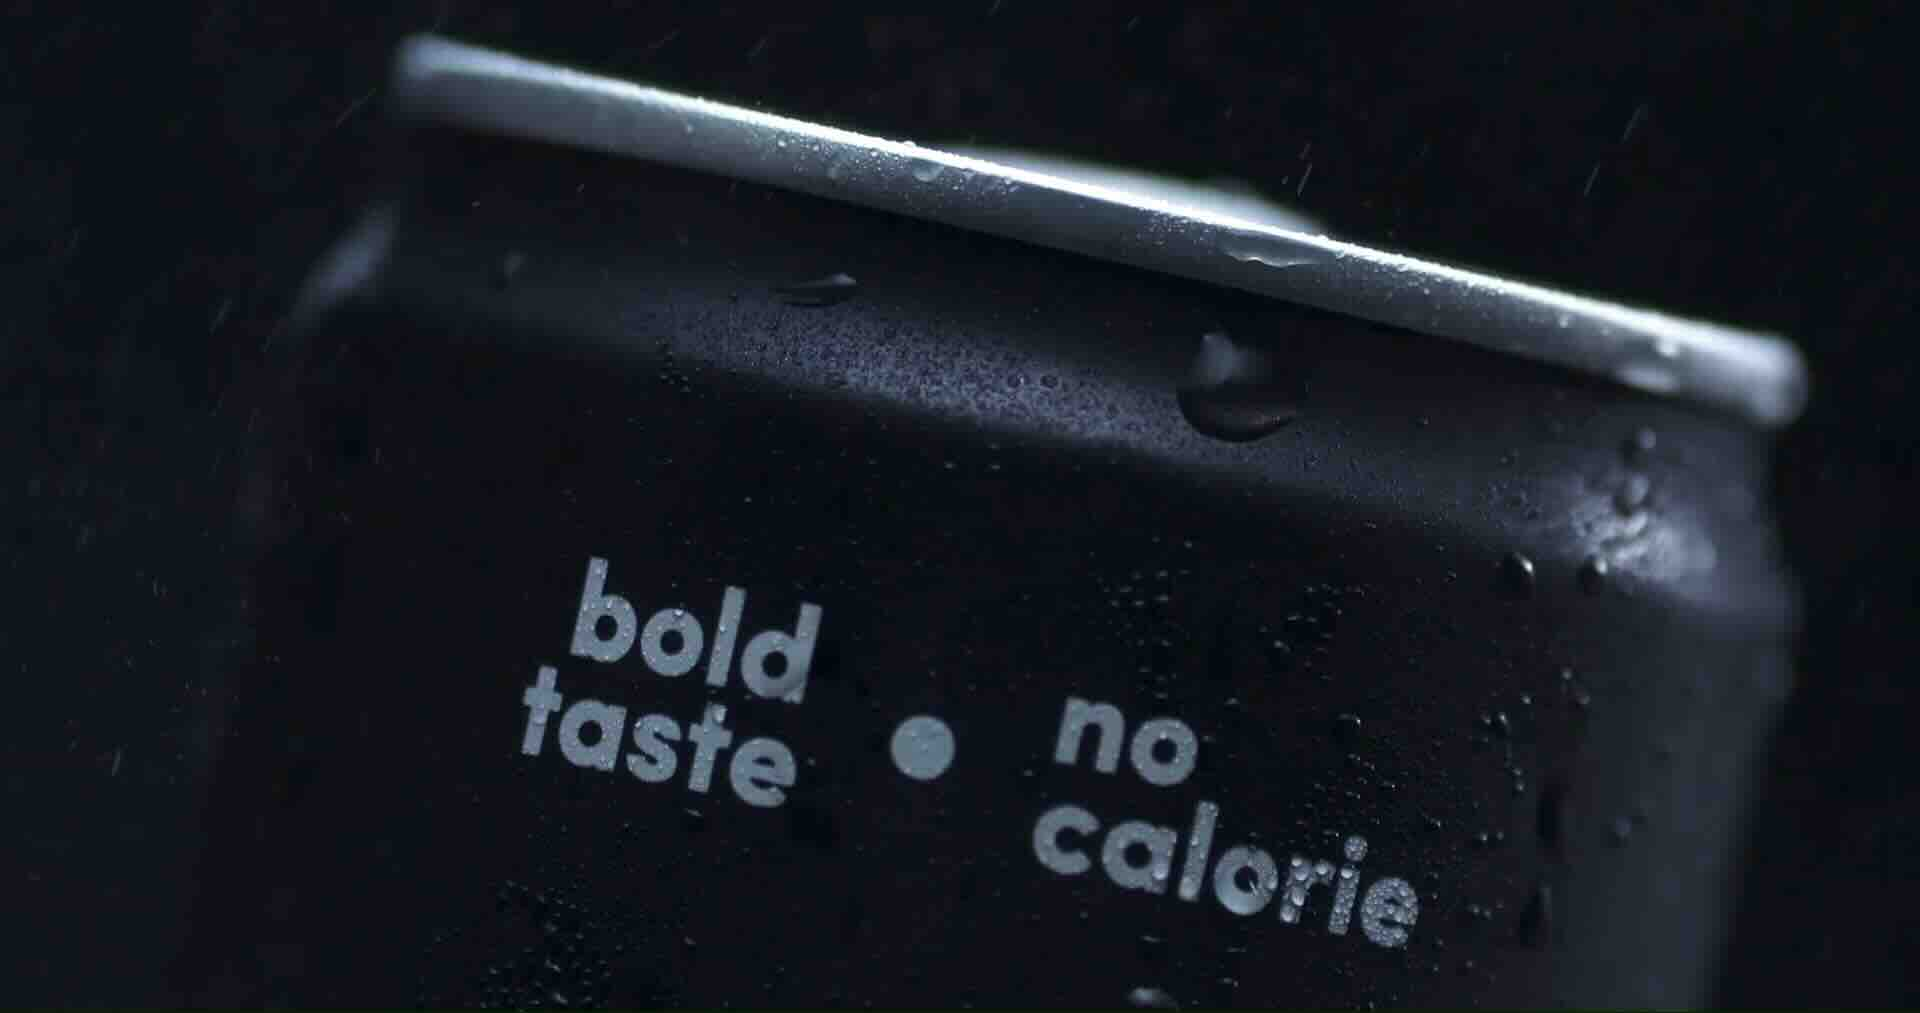
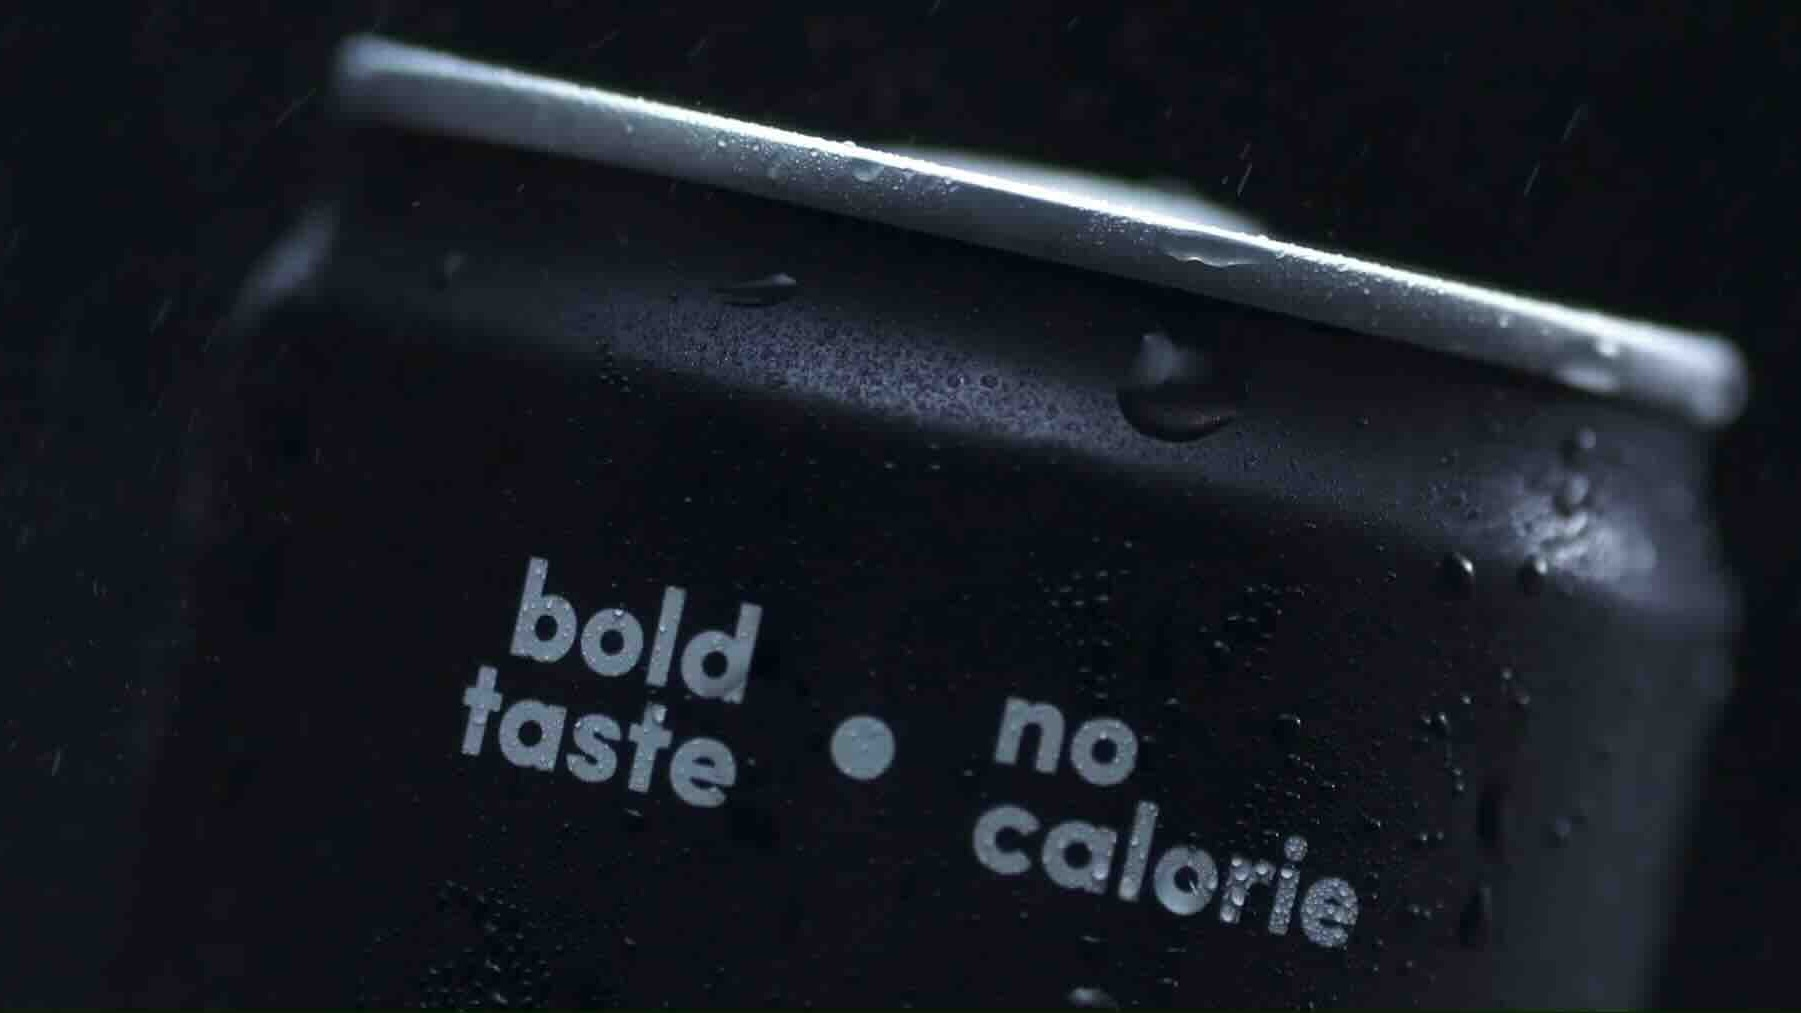
thumbnail updates

diff --git a/index.html b/index.html
@@ -133,49 +133,49 @@
             </div>
             <div class="grid masonry columns-3 columns-tablet-2" id="grid">
               <div class="grid-sizer"></div>
-              <div class="grid-item column film"><a class="thumb space-2 animated" href="https://www.youtube.com/watch?v=SfDE8r3U9AM"><img alt="Spelling thumbnail" src="assets/images/work/film//spelling/spellthumb.jpeg"/>
+              <div class="grid-item column film"><a class="thumb space-2 animated" href="https://www.youtube.com/watch?v=SfDE8r3U9AM"><img alt="Spelling thumbnail" src="assets/images/work/film//spelling/spellthumb57.jpeg"/>
                   <div class="labels">film</div>
                   <div class="caption">
                     <div class="title">Spelling</div>
                     <div class="sub">Short Film</div>
                   </div></a></div>
-              <div class="grid-item column social"><a class="thumb space-2 animated" href="https://www.youtube.com/watch?v=5yKFMJnWKrk"><img alt="Mosquito thumbnail" src="assets/images/work/social/dengue/mozziethumb.jpeg"/>
+              <div class="grid-item column social"><a class="thumb space-2 animated" href="https://www.youtube.com/watch?v=5yKFMJnWKrk"><img alt="Mosquito thumbnail" src="assets/images/work/social/dengue/mozziethumb57.jpeg"/>
                   <div class="labels">social</div>
                   <div class="caption">
                     <div class="title">Cure For Dengue?</div>
                     <div class="sub">Social, Animated</div>
                   </div></a></div>
-              <div class="grid-item column advertising"><a class="thumb space-2 animated" href="https://youtu.be/qX_6NyCH_uI?si=hgOg9h0zghVO1qBn&t=18"><img alt="Pepsi thumbnail" src="assets/images/work/advertising/pepsi/pepsithumb.jpeg"/>
+              <div class="grid-item column advertising"><a class="thumb space-2 animated" href="https://youtu.be/qX_6NyCH_uI?si=hgOg9h0zghVO1qBn&t=18"><img alt="Pepsi thumbnail" src="assets/images/work/advertising/pepsi/pepsithumb57.jpeg"/>
                   <div class="labels">advertising</div>
                   <div class="caption">
                     <div class="title">Pepsi Black</div>
                     <div class="sub">TV & Cinema</div>
                   </div></a></div>
-              <div class="grid-item column social"><a class="thumb space-2 animated" href="https://www.youtube.com/watch?v=0zqclRcgSYY"><img alt="Potato thumbnail" src="assets/images/work/advertising/uspotato/potatothumb.jpeg"/>
+              <div class="grid-item column social"><a class="thumb space-2 animated" href="https://www.youtube.com/watch?v=0zqclRcgSYY"><img alt="Potato thumbnail" src="assets/images/work/advertising/uspotato/potatothumb57.jpeg"/>
                   <div class="labels">advertising</div>
                   <div class="caption">
                     <div class="title">US Potato</div>
                     <div class="sub">Food Porn</div>
                   </div></a></div>
-              <div class="grid-item column film"><a class="thumb space-2 animated" href="https://www.youtube.com/watch?v=O906Nhjc4cQ"><img alt="Panasonic thumbnail" src="assets/images/work/advertising/panasonic/panathumb.jpeg"/>
+              <div class="grid-item column film"><a class="thumb space-2 animated" href="https://www.youtube.com/watch?v=O906Nhjc4cQ"><img alt="Panasonic thumbnail" src="assets/images/work/advertising/panasonic/panathumb57.jpeg"/>
                   <div class="labels">advertising</div>
                   <div class="caption">
                     <div class="title">Ah Ma Saves The Day</div>
                     <div class="sub">Social Content</div>
                   </div></a></div>
-              <div class="grid-item column advertising"><a class="thumb space-2 animated" href="https://www.youtube.com/watch?v=eISpIzrULqQ"><img alt="Kawan thumbnail" src="assets/images/work/advertising/kawanfood/kawanthumb.jpeg"/>
+              <div class="grid-item column advertising"><a class="thumb space-2 animated" href="https://www.youtube.com/watch?v=eISpIzrULqQ"><img alt="Kawan thumbnail" src="assets/images/work/advertising/kawanfood/kawanthumb57.jpeg"/>
                   <div class="labels">advertising</div>
                   <div class="caption">
                     <div class="title">Kawan Paratha</div>
                     <div class="sub">Food Porn</div>
                   </div></a></div>
-              <div class="grid-item column social"><a class="thumb space-2 animated" href="https://youtu.be/2DRPaoCoqhw"><img alt="UOB01 thumbnail" src="assets/images/work/social/uob/uobthumb01.jpeg"/>
+              <div class="grid-item column social"><a class="thumb space-2 animated" href="https://youtu.be/2DRPaoCoqhw"><img alt="UOB01 thumbnail" src="assets/images/work/social/uob/uobthumb0157.jpeg"/>
                   <div class="labels">social</div>
                   <div class="caption">
                     <div class="title">UOB Bank</div>
                     <div class="sub">Social Content</div>
                   </div></a></div>
-              <div class="grid-item column social"><a class="thumb space-2 animated" href="https://youtu.be/MqUb_FPrc7E"><img alt="UOB02 thumbnail" src="assets/images/work/social/uob/uobthumb02.jpeg"/>
+              <div class="grid-item column social"><a class="thumb space-2 animated" href="https://youtu.be/MqUb_FPrc7E"><img alt="UOB02 thumbnail" src="assets/images/work/social/uob/uobthumb0257.jpeg"/>
                   <div class="labels">advertising</div>
                   <div class="caption">
                     <div class="title">UOB Bank Returns</div>

diff --git a/pages/about-kenneth.html b/pages/about-kenneth.html
@@ -106,11 +106,11 @@
           <div class="container">
             <div class="grid masonry gallery columns-3">
               <div class="grid-sizer"></div>
-              <div class="grid-item column design"><a class="thumb space-3" href="../pages/project-single-logos.html"><img alt="Nevo example image" src="../assets/images/work/logos/1.jpeg"/>
-                  <div class="labels">design</div>
+              <div class="grid-item column design"><a class="thumb space-3" href="../pages/project-single-logos.html"><img alt="Ucare Face Mask" src="../assets/images/work/social/ucare/ucarethumb57.jpeg"/>
+                  <div class="labels">Social</div>
                   <div class="caption">
-                    <div class="title">Keth Woogate</div>
-                    <div class="sub">Logo</div>
+                    <div class="title">UCare Surgical Face Mask</div>
+                    <div class="sub">Product Video</div>
                   </div></a></div>
               <div class="grid-item column  branding"><a class="thumb " href="../pages/project-single-logos.html"><img alt="Nevo example image" src="../assets/images/work/logos/2.jpeg"/>
                   <div class="labels"> branding</div>
